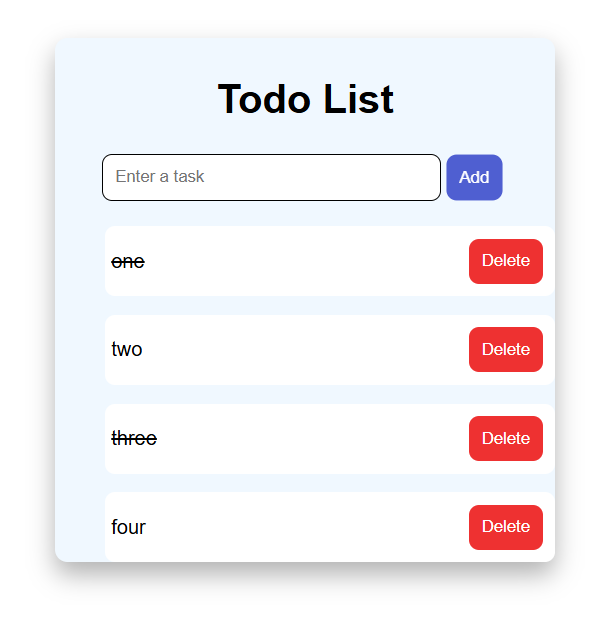
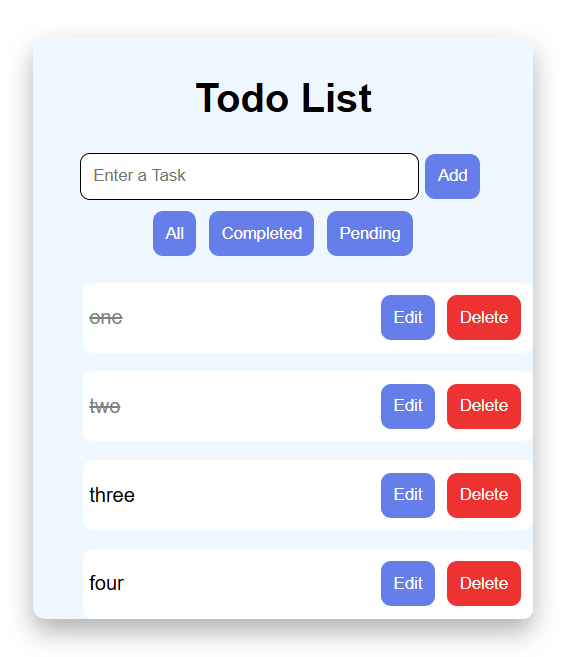
readme

diff --git a/Todo-List/README.md b/Todo-List/README.md
@@ -1,12 +1,15 @@
 # React To-Do List
 
-A simple To-Do List application built using React.js.
+A To-Do List application built using React.js.
 
 ## Features
 
 - Add tasks
 - Delete tasks
 - Mark tasks as completed
+- Save in local storage
+- Edit task
+- Filter task like all, complete, pending
 
 ## Technologies
 
@@ -25,7 +28,6 @@ todo-app/
 │   │   └── screenshot.png
 │   ├── components/
 │   │   ├── TodoForm.jsx
-│   │   ├── TodoList.jsx
 │   │   └── TodoItem.jsx
 │   ├── App.jsx
 │   ├── main.jsx
@@ -34,6 +36,9 @@ todo-app/
 ├── package.json
 └── README.md
 ```
+## Project Screenshot
+
+![TODO-List](src/assets/screenshot.png)
 
 ## React Concepts
 
@@ -43,6 +48,8 @@ todo-app/
 - Event Handling
 - map()
 - filter()
+- useEffect
+- localStorage
 
 ## Run Locally
 
